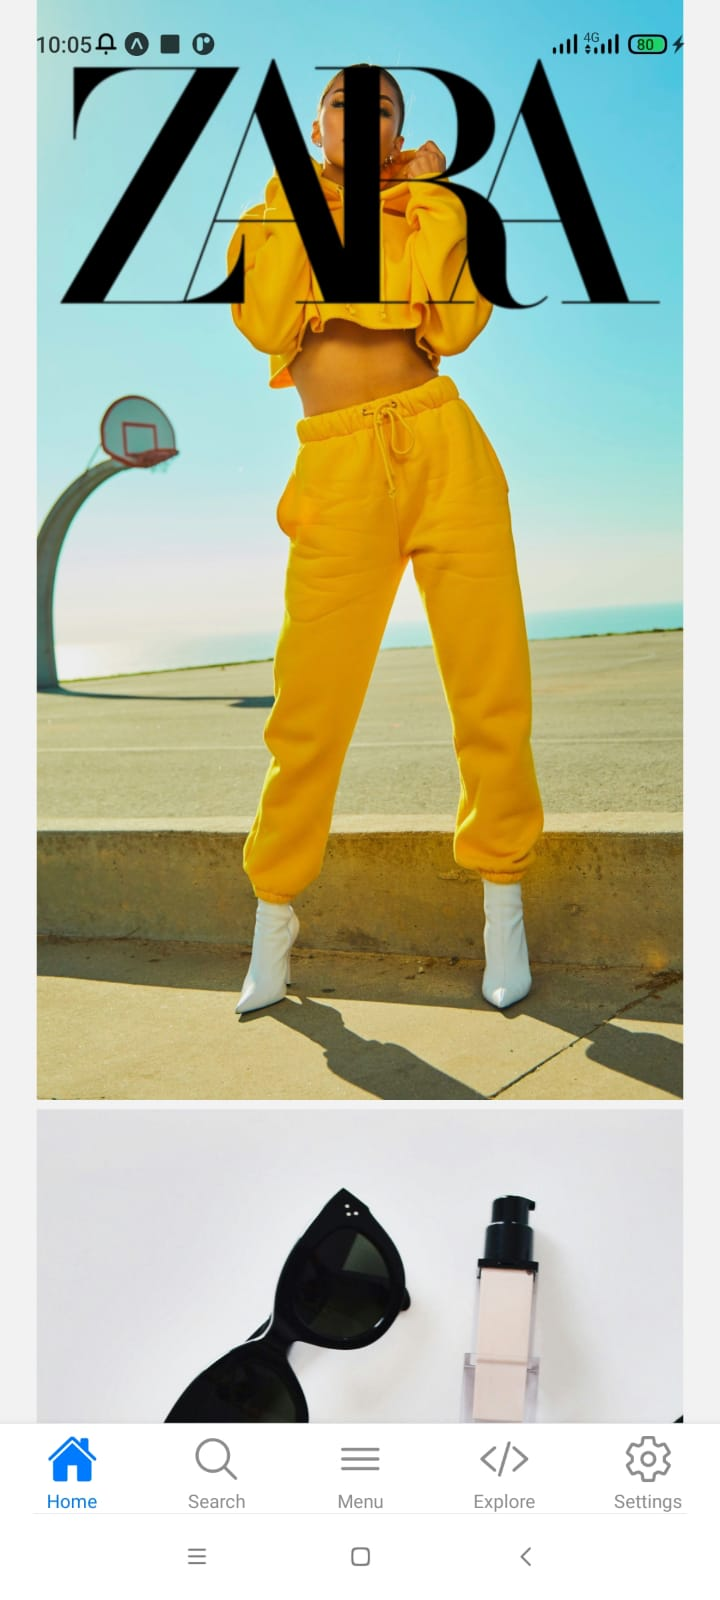
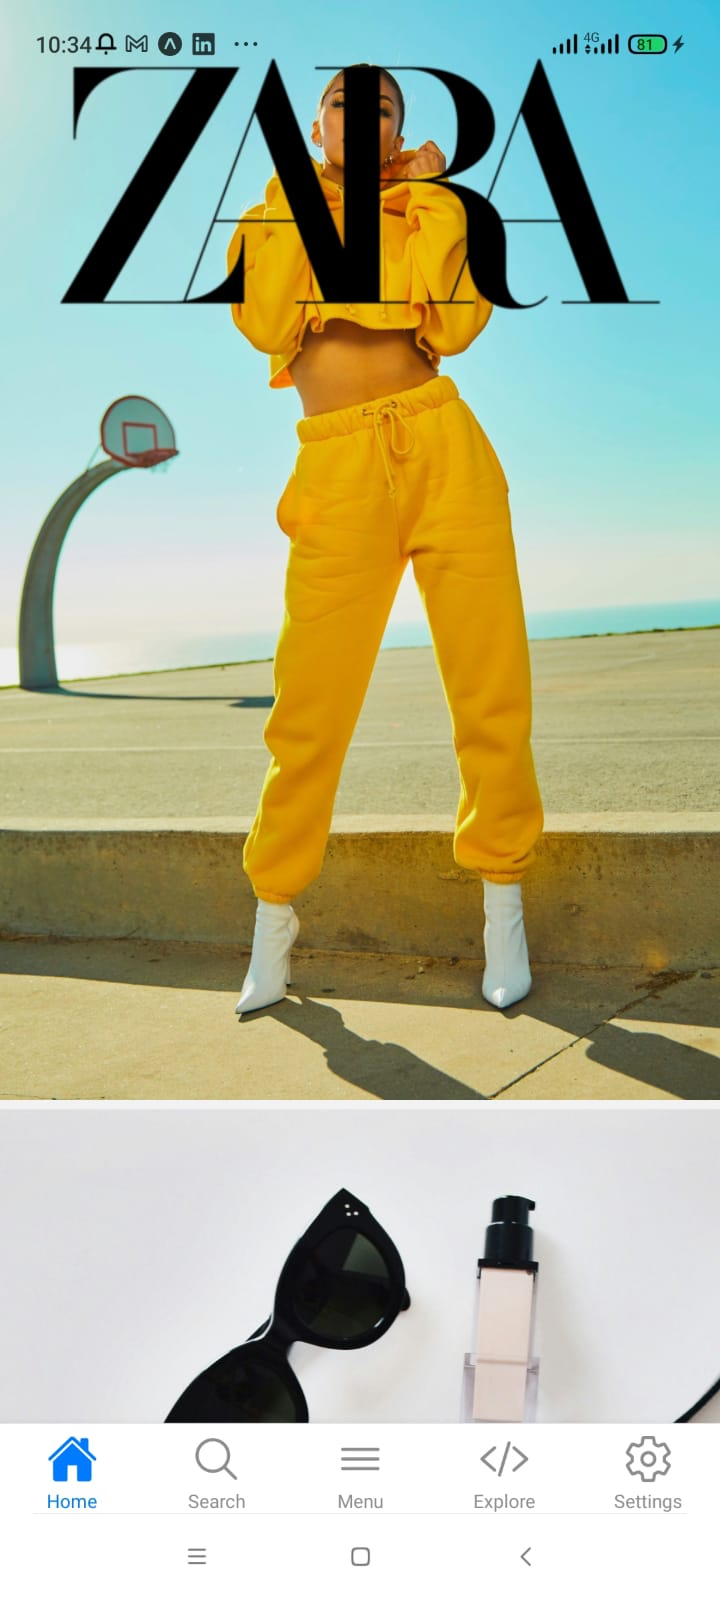
update read me

diff --git a/app/(tabs)/index.tsx b/app/(tabs)/index.tsx
@@ -15,7 +15,8 @@ export default function HomeScreen() {
         </ImageBackground>
       </View>
 
-      <ScrollView style={styles.scrollView} disableScrollViewPanResponder>
+      <ScrollView style={styles.scrollView} 
+      showsVerticalScrollIndicator={false}>
         <View style={styles.container}>
           <ImageBackground
             source={require('@/assets/img/home01.jpg')} 
@@ -31,6 +32,21 @@ export default function HomeScreen() {
 
           <ImageBackground
             source={require('@/assets/img/home03.jpg')} 
+            style={styles.image}
+          >
+          </ImageBackground>
+          <ImageBackground
+            source={require('@/assets/img/home04.jpg')} 
+            style={styles.image}
+          >
+          </ImageBackground>
+          <ImageBackground
+            source={require('@/assets/img/home05.jpg')} 
+            style={styles.image}
+          >
+          </ImageBackground>
+          <ImageBackground
+            source={require('@/assets/img/home06.jpg')} 
             style={styles.image}
           >
           </ImageBackground>
@@ -51,7 +67,7 @@ const styles = StyleSheet.create({
     marginBottom: 5,
   },
   scrollView: {
-    marginHorizontal: 20,
+   
   },
   logoContainer: {
     position: 'absolute',

diff --git a/app/(tabs)/setting.tsx b/app/(tabs)/setting.tsx
@@ -1,4 +1,6 @@
+import { Text } from "react-native";
+
 const Setting = () => {
-  return <div>Welcome to  the settings page </div>;
+  return (<Text>Welcome to  the settings page </Text>);
 };
 export default Setting;

diff --git a/README.md b/README.md
@@ -8,3 +8,6 @@
 
 3. **Home Screen 02:**
   -![Home Screen ](screenshots/sc003.jpeg)
+
+4. **Home Screen 03:**
+  -![Home Screen ](screenshots/sc004.jpeg)
